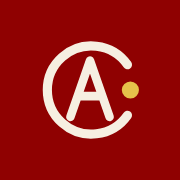
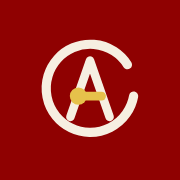
qc

diff --git a/grupal.html b/grupal.html
@@ -20,7 +20,7 @@
 <meta name="apple-mobile-web-app-capable" content="yes">
 <meta name="apple-mobile-web-app-status-bar-style" content="black-translucent">
 <meta name="apple-mobile-web-app-title" content="Grup-Al">
-<!-- grupal.html · v2026-08-29y TAVAN/GAME -->
+<!-- grupal.html · v2026-08-30a TAVAN/GAME -->
 <style>
 :root{--bg:#16130f;--panel:#221c15;--panel2:#1c1712;--accent:#c98a3c;--gold:#e6c14b;--green:#3c7a5a;--ink:#f3ede4;--muted:#a8998a;--line:#3a2f26;--warn:#d9663f;--btnink:#16130f}
 body.th-day{--bg:#e7d9c3;--panel:#f6efe1;--panel2:#efe5d2;--accent:#a5661f;--gold:#8a6d15;--green:#2e6a4c;--ink:#291f15;--muted:#7d6b56;--line:#d3c2a6;--warn:#b34a26;--btnink:#fff}
@@ -29,6 +29,7 @@ body.th-night{background-image:radial-gradient(900px 480px at 50% -8%,rgba(201,1
 body.th-red{--bg:#8F0101;--panel:#f6efe1;--panel2:#efe5d2;--accent:#8F0101;--gold:#a2801a;--green:#2e6a4c;--ink:#2a1410;--muted:#8a6a5c;--line:#e0d0b8;--warn:#7c2d12;--btnink:#fff;background-image:radial-gradient(800px 500px at 50% -10%,rgba(0,0,0,.25),rgba(0,0,0,0) 60%);background-attachment:fixed}
 body.th-red .brand{color:#f6efe1}
 body.th-red #liveLogo path{stroke:#f6efe1!important}
+body.th-red #liveLogo #logoBar{stroke:#e6c14b!important}
 body.th-red #liveLogo #logoDot{fill:#e6c14b!important}
 body.th-red .sub{color:#f0dcc8}
 body.th-red .deadline{color:#e6c14b;background:rgba(0,0,0,.25);border-color:rgba(0,0,0,.2)}
@@ -135,10 +136,10 @@ details.how[open] summary,details.kvkk[open] summary{color:var(--ink)}
 <body>
 <div class="wrap">
   <svg id="liveLogo" width="64" height="64" viewBox="0 0 100 100" style="display:block;margin:6px auto 2px;cursor:pointer" aria-label="Grup-Al ana ekran" onclick="location.href=location.pathname">
-    <path id="logoArc" d="M 80.6 29.3 A 36 36 0 1 0 80.6 70.7" fill="none" style="stroke:var(--accent)" stroke-width="7" stroke-linecap="round"/>
+    <path id="logoArc" d="M 80.6 29.3 A 36 36 0 1 0 85.65 55.01" fill="none" style="stroke:var(--accent)" stroke-width="7" stroke-linecap="round"/>
     <path d="M 34 72 L 50 26 L 66 72" fill="none" style="stroke:var(--accent)" stroke-width="6" stroke-linecap="round" stroke-linejoin="round"/>
-    <line id="logoBar" x1="59.5" y1="55" x2="59.5" y2="55" style="stroke:var(--accent);display:none" stroke-width="6" stroke-linecap="round"/>
-    <circle id="logoDot" cx="50" cy="86" r="6.5" style="fill:var(--gold)"/>
+    <line id="logoBar" x1="59.5" y1="55" x2="59.5" y2="55" style="stroke:var(--gold);display:none" stroke-width="6" stroke-linecap="round"/>
+    <circle id="logoDot" cx="80.6" cy="29.3" r="6.5" style="fill:var(--gold)"/>
   </svg>
   <div class="brand">GRUP-AL</div>
   <div class="tchips" id="themeChips"></div>
@@ -243,7 +244,7 @@ details.how[open] summary,details.kvkk[open] summary{color:var(--ink)}
 const API='https://efjvfggwnhqkunjvoyjb.supabase.co/functions/v1/grupal-proxy';
 let SLUG=new URLSearchParams(location.search).get('k')||'';
 const REF=new URLSearchParams(location.search).get('ref')||'';
-const VERSION='v2026-08-29y';
+const VERSION='v2026-08-30a';
 let PAYURL=null, STATE=null, DEPLINK=null, MINE=null;
 let ENDAT=null, TICKT=null;
 function tick(){ const el=$('deadline'); if(!el||!ENDAT) return; const left=ENDAT-Date.now();
@@ -556,10 +557,10 @@ async function checkMine(ref){
   }catch(e){}
 }
 function renderLogo(s){
-  // ÇEKİRDEĞİN YOLCULUĞU (Ömer koreografisi 2026-08-30): G hep G kalır, halka statik.
-  // Çekirdek = kalem: alt uçtan halka boyunca ağza tırmanır, sonra harfe girer ve
-  // A'nın yatay çizgisini YAZAR. Başlangıçta A çizgisizdir (göz tamamlar);
-  // kampanya tamamlanınca çizgi biter, çekirdek ağızdaki evine döner.
+  // KALEMİN YOLCULUĞU v3 (Ömer, 2026-08-30 — kırmızı ok düzeltmesiyle):
+  // Halka statik bir G: üst dudaktan (siyah ok) başlar, alt-sağ TERMİNALDE (kırmızı ok, +8°) biter.
+  // Kalem-çekirdek G'nin üzerinde kayar (çizmez), terminalden harfe iner ve A'nın yatay
+  // çizgisini ALTINLA yazar; kampanya tamamlanınca çizginin SOL UCUNDA durur = statik marka (I).
   const dot=document.getElementById('logoDot'), bar=document.getElementById('logoBar');
   if(!dot||!bar) return;
   let p=0, done=false;
@@ -569,23 +570,23 @@ function renderLogo(s){
     done=(typeof CLOSED!=='undefined'&&CLOSED&&(s.status==='fulfilled'))||((typeof redWindow==='function')&&redWindow());
     if(done) p=1; else if(goal>0) p=Math.min(0.999, locked/goal);
   }
-  const rad=d=>d*Math.PI/180;
-  const BR={x1:40.5, x2:59.5, y:55};                 // A'nın yatay çizgisi
+  const rad=d=>d*Math.PI/180, R=36, LIP=-31.75, END=8;
+  const BR={x1:40.5, x2:59.5, y:55};
+  const tx=50+R*Math.cos(rad(END)), ty=50+R*Math.sin(rad(END));   // terminal (kırmızı ok)
   let bx, by;
   if(done||p>=1){
     bar.style.display=''; bar.setAttribute('x1',BR.x1); bar.setAttribute('x2',BR.x2);
-    bx=83; by=50;                                     // kalem evine döner: ağızdaki çekirdek
-  } else if(p<=0.55){
-    const t=p/0.55, a=90-90*t;                        // alt uç (90°) → ağız ortası (0°)
-    const r=(a>=31.75)?36:(33+3*(a/31.75));           // ağız boşluğunda hafif içeri süzülür
-    bx=50+r*Math.cos(rad(a)); by=50+r*Math.sin(rad(a));
+    bx=BR.x1; by=BR.y;                                            // kalem yazdığı yerde durur
+  } else if(p<=0.8){
+    const t=p/0.8, a=LIP-(360-(END-LIP))*t;                       // G üzerinde kayış (CCW)
+    bx=50+R*Math.cos(rad(a)); by=50+R*Math.sin(rad(a));
     bar.style.display='none';
-  } else if(p<=0.62){
-    const t=(p-0.55)/0.07;                            // ağızdan harfe iniş
-    bx=83+(BR.x2-83)*t; by=50+(BR.y-50)*t;
+  } else if(p<=0.86){
+    const t=(p-0.8)/0.06;                                         // terminalden harfe iniş
+    bx=tx+(BR.x2-tx)*t; by=ty+(BR.y-ty)*t;
     bar.style.display='none';
   } else {
-    const t=(p-0.62)/0.38;                            // çizgiyi sağdan sola yazar
+    const t=(p-0.86)/0.14;                                        // altın çizgi sağdan sola
     const x=BR.x2-(BR.x2-BR.x1)*Math.min(1,t);
     bar.style.display=''; bar.setAttribute('x2',BR.x2); bar.setAttribute('x1',x);
     bx=x; by=BR.y;
